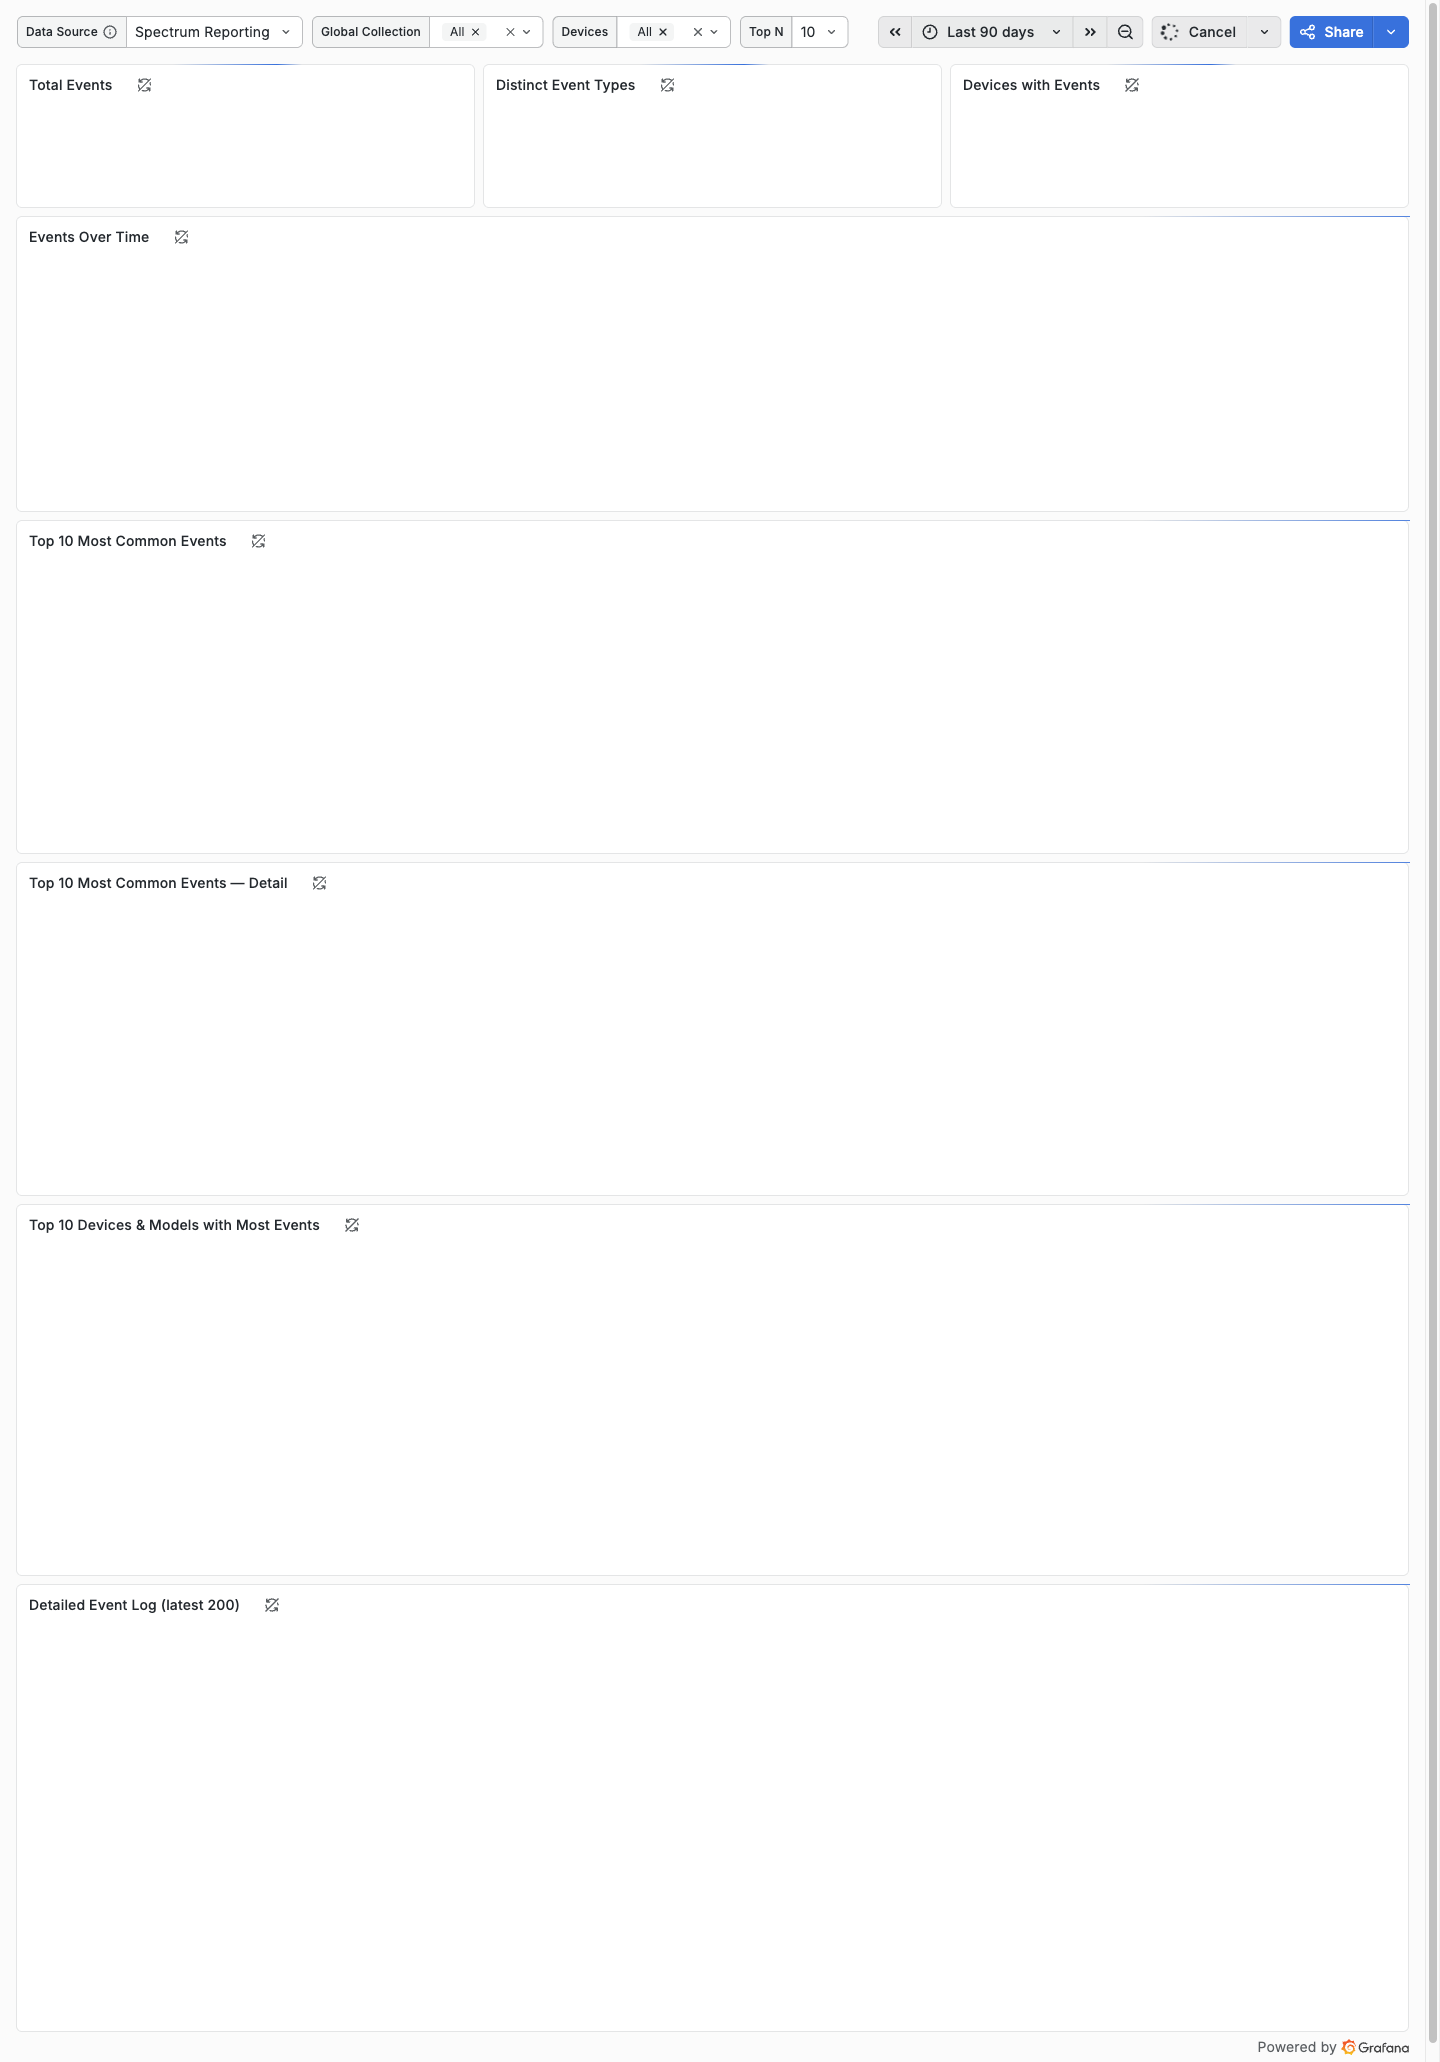
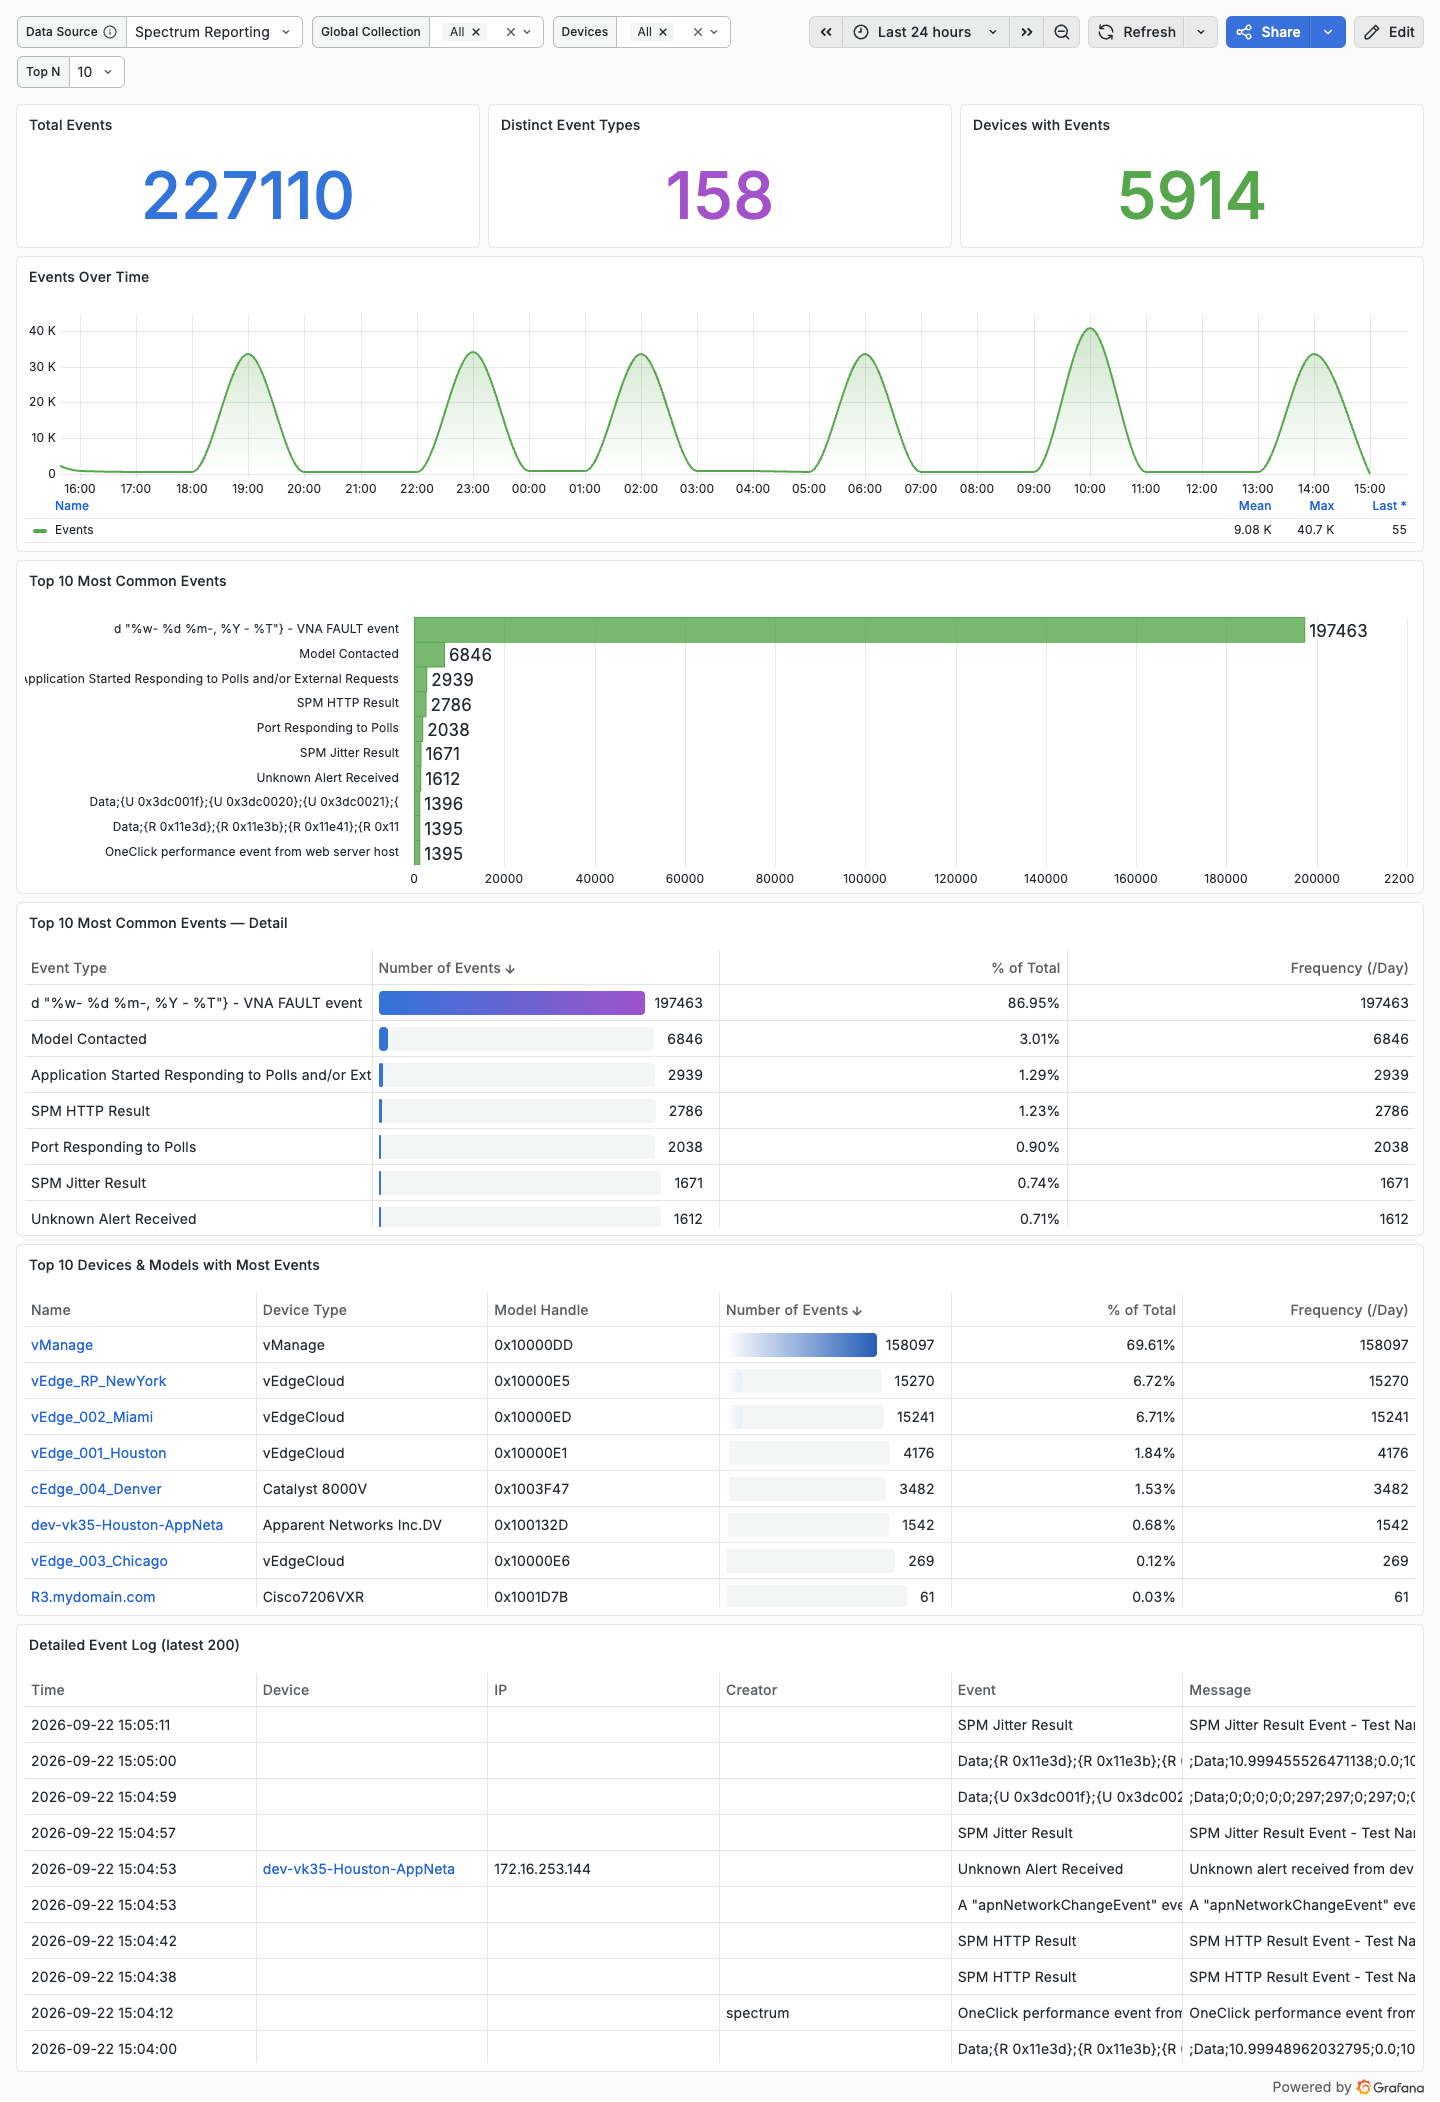
Event Log: replace the mid-load screenshot, and record the range limit
Espinosa reported twice that the catalog page shows a loading dashboard. He was
right about the image and it is now fixed. The dashboard itself was never
broken.

The published screenshot had been captured at "Last 90 days". That is not the
dashboard's default -- both this repo and the live copy default to now-24h --
and at 90 days the four Top-N/detail panels time out, so the capture caught a
page mid-query. The toolbar in the old image shows "Cancel" with a spinner,
which Grafana only renders while queries are in flight, and the panel titles
carry cancelled-query icons.

Replaced with a capture taken at the dashboard's own default, with no range
override: all 8 panels populate, 227,110 events over 24h.

Worth recording how this was nearly mis-diagnosed. My first attempt to check it
re-ran the capture with an explicit from=now-90d, reproduced the identical
failure, and I briefly wrote it up as five genuinely erroring panels. It was the
same operator error as the original screenshot. Measuring the boundary is what
settled it: 24h renders 8/8 in ~13s, 7d 8/8 in ~14s, 30d breaks 4 of 8 at ~58s,
90d worse. A capture range that is not the dashboard's default is a choice, and
it has to be justified rather than inherited.

The catalog entry now states that boundary, so the next person to widen the
range knows which panels will drop out and why -- the totals and the trend are
single-table counts and survive; the Top-N joins and the latest-200 log do not.
[…]

diff --git a/docs/Operational-Reports-Catalog.md b/docs/Operational-Reports-Catalog.md
@@ -159,6 +159,13 @@ Purpose: availability against business hours only *(Grafana-only addition, no Ja
 
 Purpose: consolidates the raw event stream plus both Jasper "Top-N" event reports into one dashboard. Conveys: totals tiles, events-over-time trend, Top-N-by-type chart/table, Top-N-by-device table, detailed (latest-200) log. Value: one stop for trend + type-ranking + device-ranking instead of three separate Jasper reports.
 
+> **Time range:** this one is the heaviest report in the set — `reporting.event` holds ~23M rows.
+> Measured 2026-09-22: the default **24h** renders all 8 panels in ~13s, and **7d** in ~14s. At
+> **30d** the four Top-N/detail panels time out, and at 90d most of the dashboard does. The
+> totals tiles and the trend keep working at any range because they are single-table counts; it
+> is the Top-N joins and the latest-200 log that don't. Widen the range deliberately, and expect
+> those four to drop out beyond about a week.
+
 ## Service/SLA Reports (4)
 
 <a id="spectrum-service-availability"></a>
